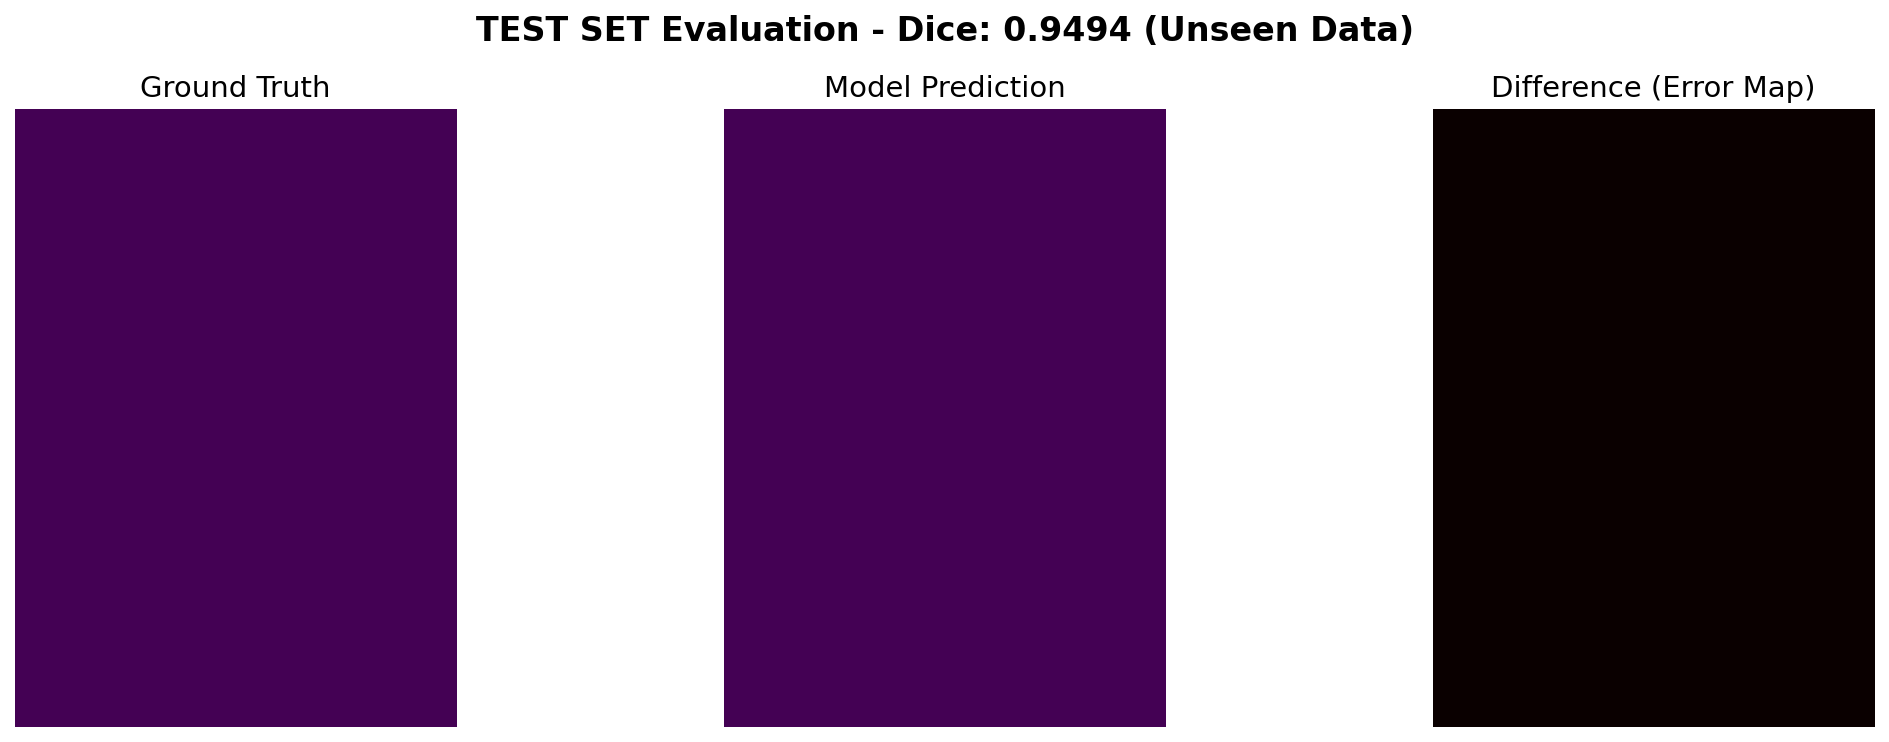
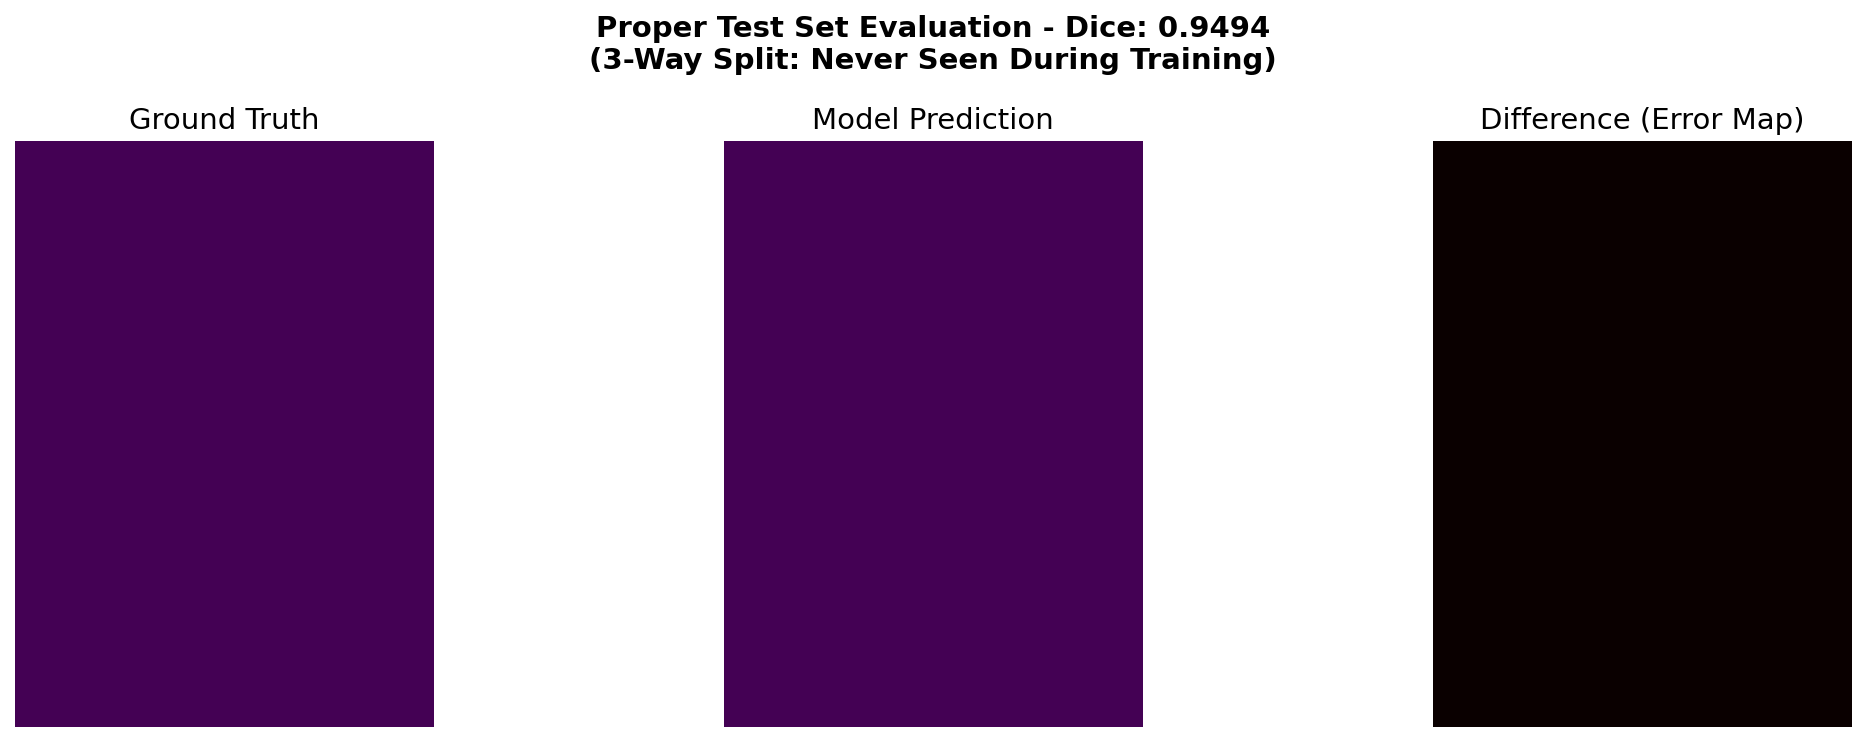
Fix test set evaluation title for clarity
- Changed title from 'Unseen Data' to '3-Way Split: Never Seen During Training'
- More descriptive and clear about the evaluation methodology
- Regenerated visualization with improved title

Changed region(s): [[0.2487, 0.0, 0.746, 0.9609], [0.746, 0.093, 0.9946, 0.9919], [0.0, 0.093, 0.2487, 0.9919]]

diff --git a/monai-demo/evaluate_on_test_set.py b/monai-demo/evaluate_on_test_set.py
@@ -304,8 +304,8 @@ try:
     axes[2].set_title('Difference (Error Map)', fontsize=14)
     axes[2].axis('off')
 
-    plt.suptitle(f'TEST SET Evaluation - Dice: {dice_scores[0]:.4f} (Unseen Data)',
-                 fontsize=16, fontweight='bold')
+    plt.suptitle(f'Proper Test Set Evaluation - Dice: {dice_scores[0]:.4f}\n(3-Way Split: Never Seen During Training)',
+                 fontsize=14, fontweight='bold')
     plt.tight_layout()
 
     output_file = "test_set_evaluation.png"
